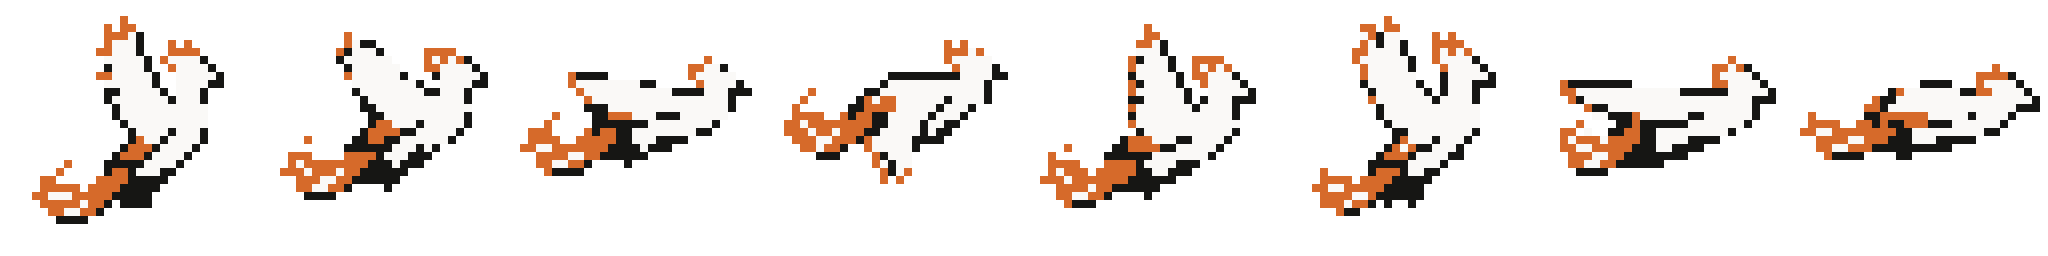
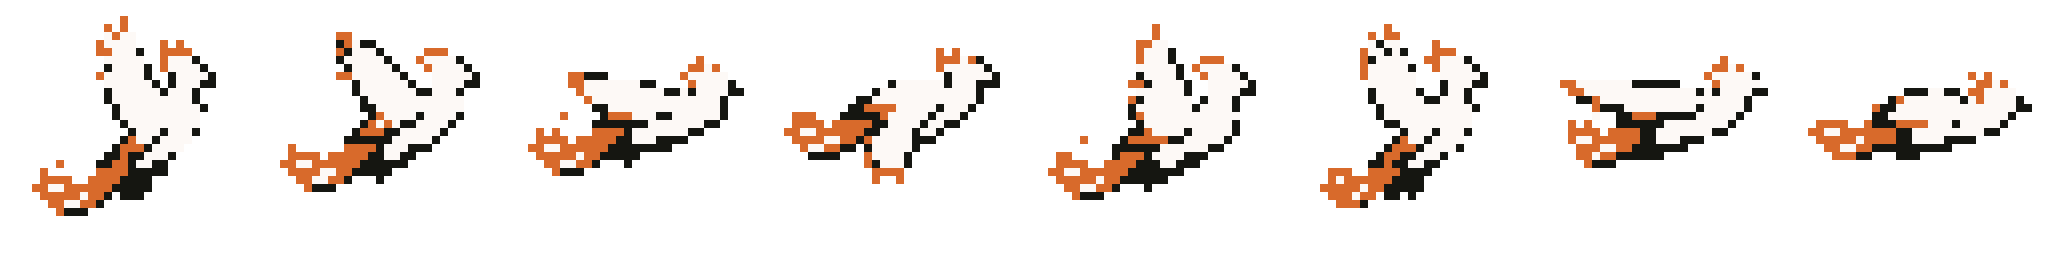
feat(phoenix): Stage E.2 and E.3 - front and three-quarter flight
Two new rows take the sheet to 256x192, six rows of eight. Heading now
picks a flight aspect: within 30 degrees of horizontal uses the side view,
within 30 degrees of vertical uses the front view, everything between uses
three-quarter, and mirroring covers left from right.

Three aspects rather than oneko's eight drawn directions. A cat's outline
changes a lot with heading - tail and ears from behind, a face from the
front - so eight is worth it. A bird's does not: flying directly away is a
blob with two lumps and flying at the viewer is nearly the same blob. Three
aspects cover all eight headings and the two that would read worst are
never drawn.

Rows are appended, never reordered. The engine indexes frames as row*8+col,
so inserting a row would silently repoint every later frame.

The scale fit needed a width constraint. It fitted on height alone, which
is fine until a pose is wider than it is tall - the three-quarter flight
pose is, because the flame tail trails behind the body. Fitted on height
that row came out 34px wide in a 32px cell and two frames sat on the left
edge. Both axes are now clamped, and the whole row shrinks together so
relative sizes survive.

The validator exempted only the row literally named "flight" from needing
ground contact. Front and three-quarter are flight aspects too and failed
on a rule that never applied to them; airborne rows are now a named set.

diff --git a/tools/phoenix/scripts/build_row.py b/tools/phoenix/scripts/build_row.py
@@ -183,11 +183,18 @@ def main():
         scale = avail / tallest
         print(f"  scale {scale:.4f} fitted from tallest source sprite ({tallest}px)")
 
-    # Never let a tall pose breach the cell. Shrinking the whole row keeps the
-    # relative sizes intact, which is the property worth protecting.
-    if round(tallest * scale) > avail:
-        scale = avail / tallest
-        print(f"  clamped to {scale:.4f}: tallest pose would have breached the cell")
+    # Never let a pose breach the cell, in either axis. Shrinking the whole row
+    # keeps the relative sizes intact, which is the property worth protecting.
+    #
+    # Width matters as much as height and is easy to forget: a three-quarter
+    # flight pose is much wider than it is tall, because the flame tail trails
+    # behind the body. Fitted on height alone that row came out 34px wide in a
+    # 32px cell and two frames sat on the left edge.
+    widest = max(x1 - x0 + 1 for x0, _, x1, _, _ in boxes)
+    max_w = CELL - 2 * TOP_MARGIN
+    if round(tallest * scale) > avail or round(widest * scale) > max_w:
+        scale = min(avail / tallest, max_w / widest)
+        print(f"  clamped to {scale:.4f}: a pose would have breached the cell")
 
     # Vertical placement.
     #

diff --git a/tools/phoenix/scripts/validate_row.py b/tools/phoenix/scripts/validate_row.py
@@ -24,8 +24,11 @@ import sys as _sys
 # Any row can be validated; the ash rule applies only to the rebirth row.
 _ARGS = [a for a in _sys.argv[1:] if not a.startswith("-")]
 CHECK_ASH = (_ARGS[0] if _ARGS else "rebirth") == "rebirth"
-# A flight row never touches the ground; every other row should.
-GROUNDED_ROW = (_ARGS[0] if _ARGS else "rebirth") != "flight"
+# Airborne rows never touch the ground; every other row should. These are the
+# flight aspects - side, front and three-quarter - which between them cover all
+# eight headings by angle and mirroring.
+AIRBORNE_ROWS = {"flight", "front", "quarter"}
+GROUNDED_ROW = (_ARGS[0] if _ARGS else "rebirth") not in AIRBORNE_ROWS
 
 
 # Which row to validate. The ash rule applies only to the rebirth row, so it

diff --git a/tools/phoenix/scripts/assemble_sheet.py b/tools/phoenix/scripts/assemble_sheet.py
@@ -10,7 +10,9 @@ import json
 
 ROOT = Path(__file__).resolve().parents[1]
 OUT = ROOT / "output"
-ROWS = ["perched", "launch", "flight", "rebirth"]
+# Appended, never reordered: the engine indexes frames as row*8+col,
+# so inserting a row would silently repoint every later frame.
+ROWS = ["perched", "launch", "flight", "rebirth", "front", "quarter"]
 CELL = 32
 
 sheet = Image.new("RGBA", (CELL * 8, CELL * len(ROWS)), (0, 0, 0, 0))
